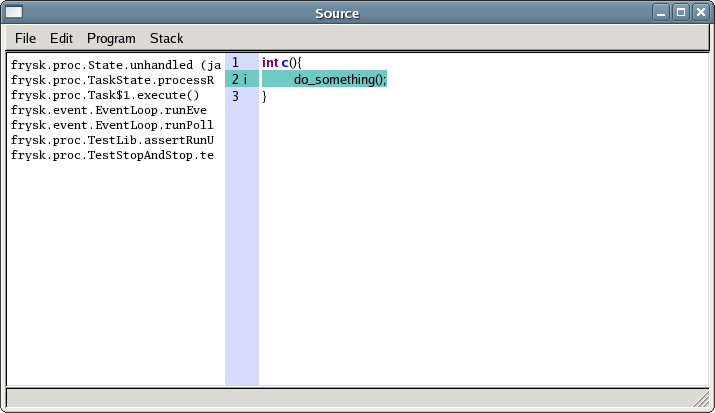
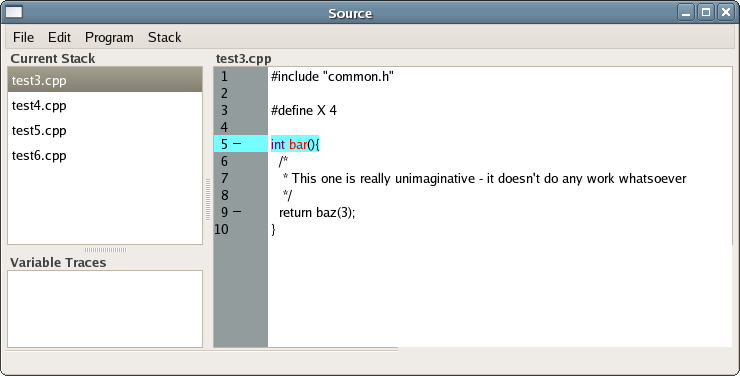
- Updated screenshot of source window

Changed region(s): [[0.0, 0.0, 1.0, 0.9947], [0.4, 0.4681, 0.9231, 0.4973], [0.9846, 0.1755, 1.0, 0.2048]]

diff --git a/htdocs/images/index.html b/htdocs/images/index.html
@@ -52,7 +52,8 @@ event viewer that is going to eventually added to the above:
 <p>
 
 Next is a partial mockup (some parts were taken from a snapshot) of
-the source view window.  On the left hand side is the stack, and in
+the source view window.  On the left hand side is the stack and variable trace
+, and in
 the middle the corresponding source.
 
 <p>
